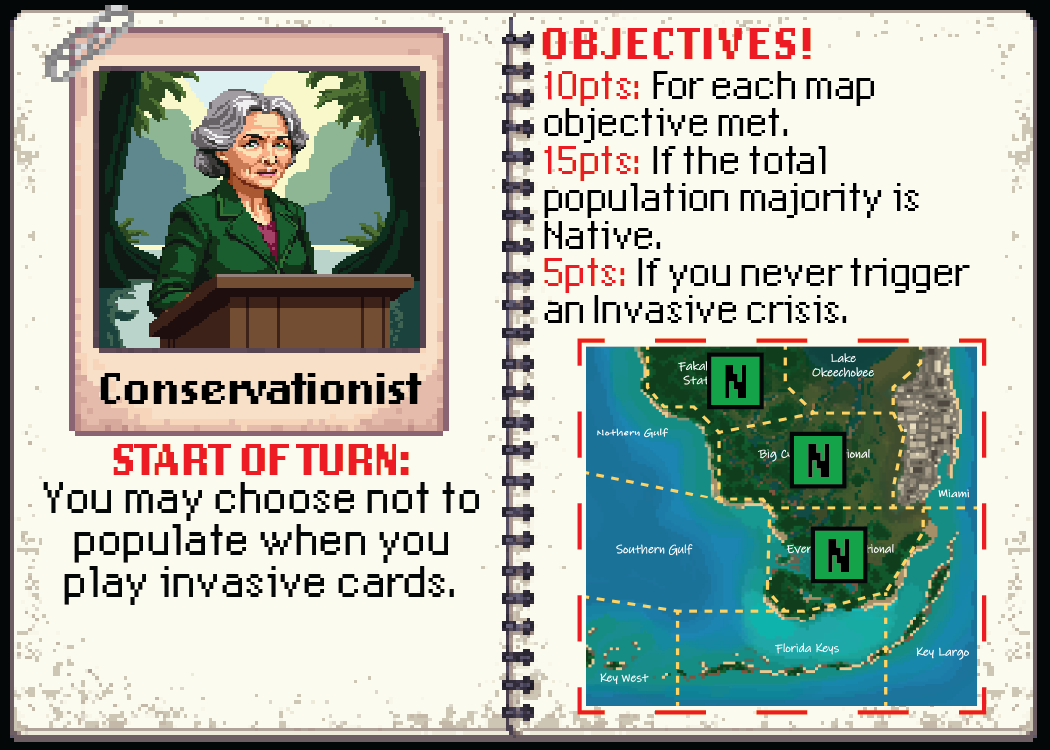
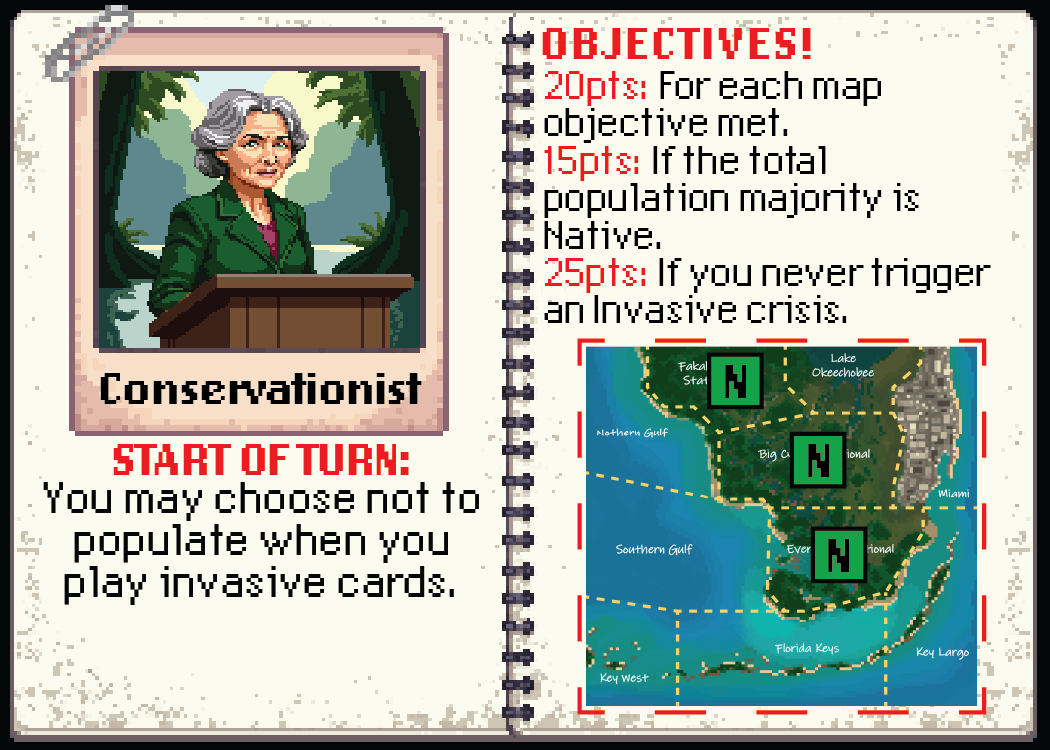
Role balance: Land Developer needs 3 empty regions; Conservationist 20/map objective and 25 for never triggering a Crisis; Tourist 20 for tricks only from objective regions; role cards re-lettered; scoring numbers live in ROLES

Changed region(s): [[0.5181, 0.3373, 0.9448, 0.3987], [0.5181, 0.092, 0.8533, 0.1533]]

diff --git a/public/data.js b/public/data.js
@@ -133,9 +133,9 @@
   const ROLES = {
     Conservationist: {
       name: 'Conservationist', img: 'assets/cards/roles/Conservationist.png', ending: 'assets/cards/roles/ConservationistEND.png',
-      map: { FSP: 'N', BCNP: 'N', ENP: 'N' }, mapPts: 10,
+      map: { FSP: 'N', BCNP: 'N', ENP: 'N' }, mapPts: 20, majorityPts: 15, noCrisisPts: 25,
       ability: 'You may choose not to populate when you play Invasive cards.',
-      goals: ['10 pts for each map objective met', '15 pts if the total population majority is Native', '5 pts if you never trigger an Invasive Crisis'],
+      goals: ['20 pts for each map objective met', '15 pts if the total population majority is Native', '25 pts if you never trigger an Invasive Crisis'],
     },
     Fisherman: {
       name: 'Fisherman', img: 'assets/cards/roles/Fisherman.png', ending: 'assets/cards/roles/FishermanENDING.png',
@@ -151,9 +151,9 @@
     },
     LandDeveloper: {
       name: 'Land Developer', img: 'assets/cards/roles/LandDeveloper.png', ending: 'assets/cards/roles/LandDeveloperENDING.png',
-      map: { NG: 'N', SG: 'N', KW: 'N', KL: 'N', M: 'I' }, mapPts: 5,
+      map: { NG: 'N', SG: 'N', KW: 'N', KL: 'N', M: 'I' }, mapPts: 5, emptyNeed: 3, emptyPts: 15,
       ability: 'Start of turn: remove 1 population token from any region.',
-      goals: ['5 pts for each map objective met', '15 pts if there is no population in at least 2 regions', '10 pts if you won the most total tricks'],
+      goals: ['5 pts for each map objective met', '15 pts if there is no population in at least three regions', '10 pts if you won the most total tricks'],
     },
     Researcher: {
       name: 'Researcher', img: 'assets/cards/roles/Researcher.png', ending: 'assets/cards/roles/ResearcherENDING.png',
@@ -163,11 +163,17 @@
     },
     Tourist: {
       name: 'Tourist', img: 'assets/cards/roles/Tourist.png', ending: 'assets/cards/roles/TouristENDING.png',
-      map: { M: 'I', ENP: 'N', KL: 'N', FK: 'N', KW: 'N' }, mapPts: 5,
+      map: { M: 'I', ENP: 'N', KL: 'N', FK: 'N', KW: 'N' }, mapPts: 5, allMetPts: 10, onlyObjPts: 20,
       ability: 'Start of turn: look at the top card of the location deck. You may then replace it or put it on the bottom.',
-      goals: ['5 pts for each map objective met', '10 pts if all map objectives are met', '15 pts if you won tricks only from your map objective regions'],
+      goals: ['5 pts for each map objective met', '10 pts if all map objectives are met', '20 pts if you won tricks only from your map objective regions'],
     },
   };
+
+  // Balance experiments only (test runs): EG_ROLE_TUNE='{"Tourist":{"allMetPts":20}}' overrides role numbers.
+  if (typeof process !== 'undefined' && process.env && process.env.EG_ROLE_TUNE) {
+    const tune = JSON.parse(process.env.EG_ROLE_TUNE);
+    for (const r of Object.keys(tune)) Object.assign(ROLES[r], tune[r]);
+  }
 
   // Co-op boss (not a player role, so it is not in ROLES)
   const BOSS = {

diff --git a/game.js b/game.js
@@ -835,8 +835,8 @@ function computeResults(s) {
     const objPop = objRegions.reduce((a, r) => a + b[r].n + b[r].i, 0);
     const role = pl.role;
     if (role === 'Conservationist') {
-      lines.push({ label: `Native majority overall (${totalN} vs ${totalI})`, pts: totalN > totalI ? 15 : 0 });
-      lines.push({ label: 'Never triggered an Invasive Crisis', pts: pl.triggeredCrisis ? 0 : 5 });
+      lines.push({ label: `Native majority overall (${totalN} vs ${totalI})`, pts: totalN > totalI ? R.majorityPts : 0 });
+      lines.push({ label: 'Never triggered an Invasive Crisis', pts: pl.triggeredCrisis ? 0 : R.noCrisisPts });
     } else if (role === 'Fisherman' || role === 'Hunter') {
       lines.push({ label: `25+ population in objective regions (${objPop})`, pts: objPop >= 25 ? (role === 'Fisherman' ? 10 : 15) : 0 });
       const suit = role === 'Fisherman' ? 'Water' : 'Land';
@@ -845,16 +845,16 @@ function computeResults(s) {
       lines.push({ label: `Most tricks from ${suit} regions (${mine})`, pts: mine > 0 && mine === best ? 15 : 0 });
     } else if (role === 'LandDeveloper') {
       const empty = REGION_IDS.filter(r => b[r].n + b[r].i === 0).length;
-      lines.push({ label: `No population in 2+ regions (${empty} empty)`, pts: empty >= 2 ? 15 : 0 });
+      lines.push({ label: `No population in ${R.emptyNeed}+ regions (${empty} empty)`, pts: empty >= R.emptyNeed ? R.emptyPts : 0 });
       lines.push({ label: `Most total tricks (${tricks[p]})`, pts: tricks[p] > 0 && tricks[p] === maxOf(tricks) ? 10 : 0 });
     } else if (role === 'Researcher') {
       const tax = new Set(pl.pile.map(c => CARDS[c].taxon));
       lines.push({ label: `6 unique taxonomies in scoring pile (${tax.size})`, pts: tax.size >= 6 ? 15 : 0 });
       lines.push({ label: `Fewest tricks (${tricks[p]})`, pts: tricks[p] === minOf(tricks) ? 10 : 0 });
     } else if (role === 'Tourist') {
-      lines.push({ label: 'All map objectives met', pts: met.length === objRegions.length ? 10 : 0 });
+      lines.push({ label: 'All map objectives met', pts: met.length === objRegions.length ? R.allMetPts : 0 });
       const only = pl.biomesWon.length > 0 && pl.biomesWon.every(id => R.map[BIOMES[id].region]);
-      lines.push({ label: 'Won tricks only from objective regions', pts: only ? 15 : 0 });
+      lines.push({ label: 'Won tricks only from objective regions', pts: only ? R.onlyObjPts : 0 });
     }
     lines.push({ label: `Tricks won: ${tricks[p]} × ${TRICK_POINTS}`, pts: tricks[p] * TRICK_POINTS });
     const total = lines.reduce((a, l) => a + l.pts, 0);

diff --git a/ai.js b/ai.js
@@ -121,8 +121,8 @@ module.exports = function makeAI(G) {
       const others = people.filter(q => q !== k);
       switch (pl.role) {
         case 'Conservationist':
-          v += 15 * L((totN - totI - 0.5) / (sig * 1.6));
-          v += pl.triggeredCrisis ? 0 : 5 * Math.pow(0.96, R);
+          v += Rl.majorityPts * L((totN - totI - 0.5) / (sig * 1.6));
+          v += pl.triggeredCrisis ? 0 : Rl.noCrisisPts * Math.pow(0.96, R);
           break;
         case 'Fisherman': case 'Hunter': {
           const suit = pl.role === 'Fisherman' ? 'Water' : 'Land';
@@ -134,7 +134,7 @@ module.exports = function makeAI(G) {
         }
         case 'LandDeveloper': {
           const e = REGION_IDS.reduce((a, r) => a + L((0.5 - b[r].n - b[r].i) / (0.35 + 0.25 * R)), 0);
-          v += 15 * L((e - 1.5) / 0.45);
+          v += Rl.emptyPts * L((e - (Rl.emptyNeed - 0.5)) / 0.45);
           const mine = totalTricks(k), best = Math.max(0, ...others.map(totalTricks));
           if (mine > 0.05) v += 10 * L((mine - best + 0.25) / tsig);
           break;
@@ -148,10 +148,10 @@ module.exports = function makeAI(G) {
           break;
         }
         case 'Tourist': {
-          v += 10 * mets.reduce((a, x) => a * x, 1);
+          v += Rl.allMetPts * mets.reduce((a, x) => a * x, 1);
           const off = pl.biomesWon.filter(id => !Rl.map[BIOMES[id].region]).length;
           const inObj = objs.length / REGION_IDS.length;
-          if (off === 0) v += 15 * (pl.biomesWon.length ? 1 : (R > 0 ? 0.6 : 0)) * Math.pow(inObj, fut[k].all * 0.6);
+          if (off === 0) v += Rl.onlyObjPts * (pl.biomesWon.length ? 1 : (R > 0 ? 0.6 : 0)) * Math.pow(inObj, fut[k].all * 0.6);
           break;
         }
       }
